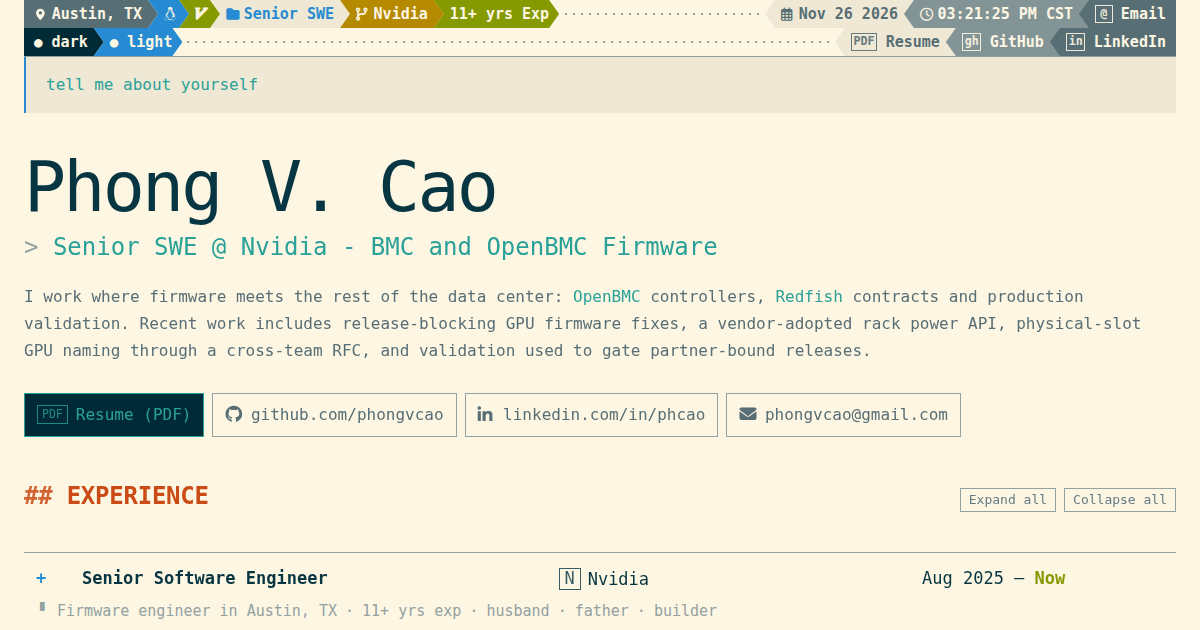
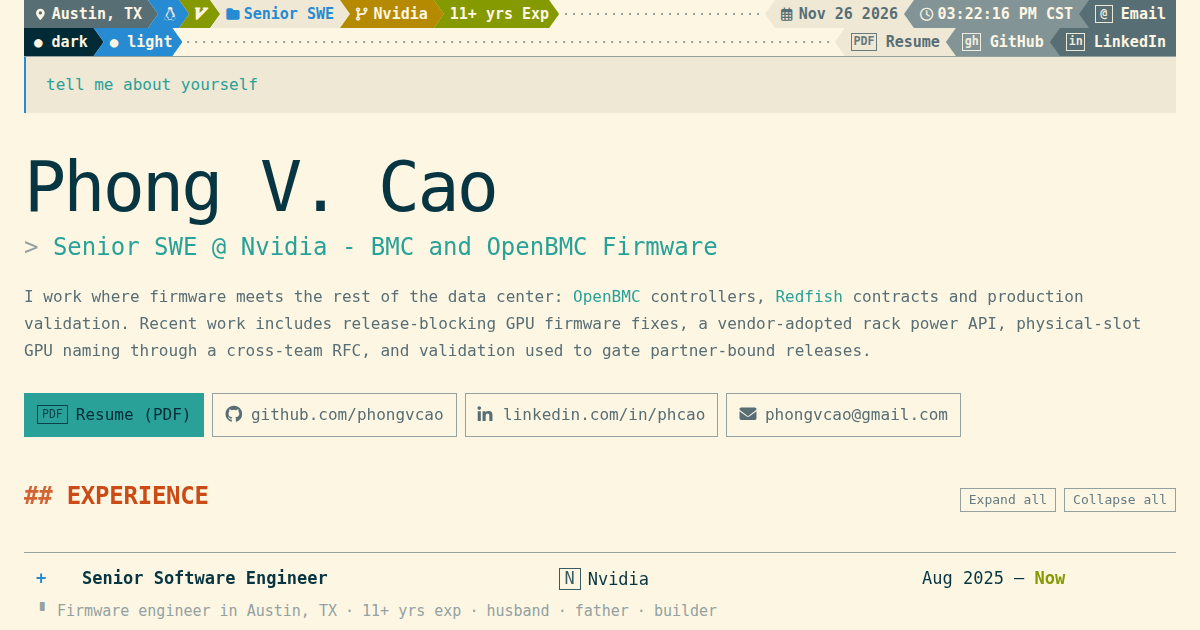
site: Resume filled with the role colour
Solid cyan fill, the same #2aa198 as Senior SWE @ Nvidia, with base03 ink on it; 4.75:1 both themes.

Changed region(s): [[0.0, 0.6032, 0.185, 0.6937], [0.8017, 0.0, 0.8325, 0.0302]]

diff --git a/styles.css b/styles.css
@@ -247,15 +247,15 @@ code {
 
 .button-primary {
   border-color: var(--cyan);
-  background: #002b36;
-  color: var(--cyan);
+  background: var(--cyan);
+  color: #002b36;
 }
 
 .button-primary:hover {
   border-color: var(--cyan);
-  background: #002b36;
-  color: var(--cyan);
-  filter: brightness(1.15);
+  background: var(--cyan);
+  color: #002b36;
+  filter: brightness(1.12);
 }
 
 .bracket {
